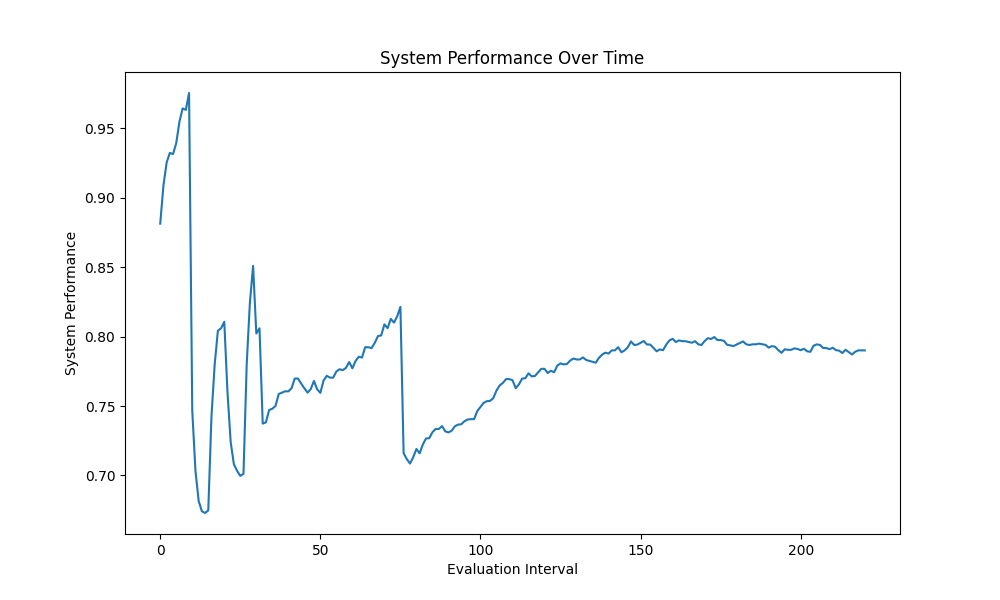
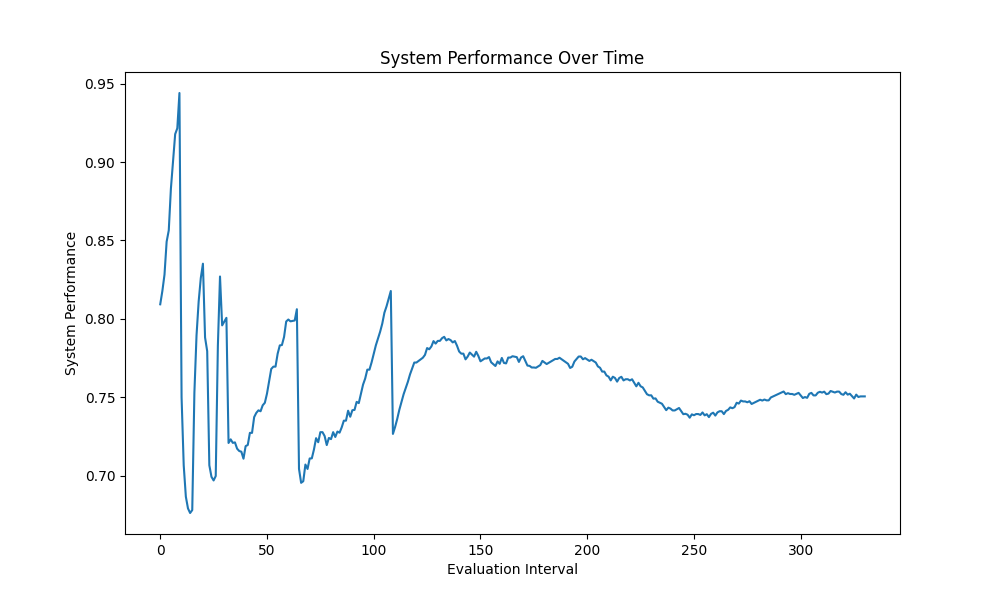
Backengine code update

diff --git a/collaborative_intelligence.py b/collaborative_intelligence.py
@@ -29,6 +29,8 @@ class Agent:
             "regression": 1,
             "clustering": 1
         }
+        self.mentor = None
+        self.mentee = None
 
     async def process_task(self, task: Task) -> Tuple[str, float]:
         processing_time = task.complexity * (1 / self.reputation) * (1 / self.expertise_level[task.domain])
@@ -100,6 +102,8 @@ class Agent:
 
     def increase_expertise(self, domain: str):
         self.expertise_level[domain] = min(10, self.expertise_level[domain] + 0.1)
+        if self.mentee:
+            self.mentee.expertise_level[domain] = min(self.mentee.expertise_level[domain] + 0.05, self.expertise_level[domain])
 
 class MultiAgentSystem:
     def __init__(self, agents: List[Agent]):
@@ -113,6 +117,7 @@ class MultiAgentSystem:
         self.long_term_performance = []
         self.add_agent_threshold = 0.7
         self.remove_agent_threshold = 0.4
+        self.domain_performance = defaultdict(list)
         for agent in self.agents:
             agent.creation_time = self.current_time
 
@@ -231,12 +236,31 @@ class MultiAgentSystem:
     def add_agent(self, agent: Agent):
         agent.creation_time = self.current_time
         self.agents.append(agent)
+        self._assign_mentor(agent)
         self.log.append(f"Time {self.current_time}: Added new agent {agent.agent_id}")
 
     def remove_agent(self, agent: Agent):
         if agent in self.agents:
+            self._remove_mentorship(agent)
             self.agents.remove(agent)
             self.log.append(f"Time {self.current_time}: Removed agent {agent.agent_id}")
+
+    def _assign_mentor(self, new_agent: Agent):
+        potential_mentors = [agent for agent in self.agents if agent.specialization == new_agent.specialization and agent != new_agent]
+        if potential_mentors:
+            mentor = max(potential_mentors, key=lambda a: a.reputation)
+            new_agent.mentor = mentor
+            mentor.mentee = new_agent
+            self.log.append(f"Time {self.current_time}: Assigned {mentor.agent_id} as mentor to {new_agent.agent_id}")
+
+    def _remove_mentorship(self, agent: Agent):
+        if agent.mentor:
+            agent.mentor.mentee = None
+            agent.mentor = None
+        if agent.mentee:
+            agent.mentee.mentor = None
+            self._assign_mentor(agent.mentee)
+            agent.mentee = None
 
     def evaluate_system_performance(self):
         if not self.agents:
@@ -249,6 +273,7 @@ class MultiAgentSystem:
         system_performance = 0.4 * overall_performance + 0.2 * task_coverage + 0.2 * knowledge_diversity + 0.2 * workload_balance
         self.performance_history.append(system_performance)
         self.workload_history.append(self._get_workload_distribution())
+        self._update_domain_performance()
         self.log.append(f"Time {self.current_time}: System performance: {system_performance:.2f}")
         return system_performance
 
@@ -272,6 +297,13 @@ class MultiAgentSystem:
         total_tasks = sum(agent.total_tasks_processed for agent in self.agents)
         return {agent.agent_id: agent.total_tasks_processed / max(1, total_tasks) for agent in self.agents}
 
+    def _update_domain_performance(self):
+        for domain in ["classification", "regression", "clustering"]:
+            domain_agents = [agent for agent in self.agents if agent.specialization == domain]
+            if domain_agents:
+                avg_performance = sum(agent.performance_by_task_type[domain]['success'] / max(1, agent.performance_by_task_type[domain]['total']) for agent in domain_agents) / len(domain_agents)
+                self.domain_performance[domain].append(avg_performance)
+
     def _adjust_agent_specializations(self):
         for agent in self.agents:
             if agent.specialization_change_cooldown > 0:
@@ -281,13 +313,15 @@ class MultiAgentSystem:
             best_specialization = agent.get_best_specialization()
             if best_specialization != agent.specialization:
                 performance_diff = agent.get_performance_difference()
-                change_probability = min(1.0, performance_diff * 10)  # Increased sensitivity
+                change_probability = min(1.0, performance_diff * 15)  # Increased sensitivity
                 if random.random() < change_probability:
+                    self._remove_mentorship(agent)
                     self.log.append(f"Time {self.current_time}: {agent.agent_id} changed specialization from {agent.specialization} to {best_specialization}")
                     self.specialization_changes.append((self.current_time, agent.agent_id, agent.specialization, best_specialization))
                     agent.specialization = best_specialization
                     agent.specialization_strength = 1.0  # Reset specialization strength
                     agent.specialization_change_cooldown = 3  # Reduced cooldown period
+                    self._assign_mentor(agent)
 
     def _update_performance_thresholds(self):
         if len(self.performance_history) > 10:
@@ -308,6 +342,8 @@ class MultiAgentSystem:
                 elif trend > 0.01:
                     self.log.append(f"Time {self.current_time}: Long-term performance improving. Optimizing system parameters.")
                     self._optimize_system_parameters()
+            
+            self._identify_and_address_bottlenecks()
 
     def _adjust_system_parameters(self):
         for agent in self.agents:
@@ -320,6 +356,29 @@ class MultiAgentSystem:
             agent.reputation *= 1.05  # Slightly increase all agent reputations to reward good performance
         self.add_agent_threshold *= 1.02  # Make it slightly harder to add new agents
         self.remove_agent_threshold *= 0.98  # Make it slightly easier to remove agents
+
+    def _identify_and_address_bottlenecks(self):
+        if len(self.domain_performance["classification"]) < 5:
+            return
+
+        for domain in ["classification", "regression", "clustering"]:
+            recent_performance = self.domain_performance[domain][-5:]
+            if sum(recent_performance) / len(recent_performance) < 0.6:  # If average performance in domain is below 0.6
+                self.log.append(f"Time {self.current_time}: Identified bottleneck in {domain} domain. Taking action.")
+                self._address_domain_bottleneck(domain)
+
+    def _address_domain_bottleneck(self, domain: str):
+        domain_agents = [agent for agent in self.agents if agent.specialization == domain]
+        if len(domain_agents) < 3:
+            # Add a new agent specialized in this domain
+            new_agent = Agent(f"Agent_{len(self.agents)+1}", domain, domain)
+            self.add_agent(new_agent)
+        else:
+            # Increase training and knowledge sharing for existing agents
+            for agent in domain_agents:
+                agent.expertise_level[domain] = min(10, agent.expertise_level[domain] * 1.1)
+                if agent.mentor:
+                    agent.expertise_level[domain] = min(10, (agent.expertise_level[domain] + agent.mentor.expertise_level[domain]) / 2)
 
     async def run_simulation(self, num_steps: int):
         for _ in range(num_steps):
@@ -360,3 +419,6 @@ class MultiAgentSystem:
 
     def get_long_term_performance(self):
         return self.long_term_performance
+
+    def get_domain_performance(self):
+        return self.domain_performance

diff --git a/test_enhanced_collaborative_intelligence.py b/test_enhanced_collaborative_intelligence.py
@@ -28,9 +28,9 @@ async def test_enhanced_collaborative_intelligence():
         print(f"{agent.agent_id} reputation: {agent.reputation:.2f}")
 
     print("\n2. Extended Simulation:")
-    num_steps = 200  # Increased simulation steps
+    num_steps = 300  # Increased simulation steps
     for step in range(num_steps):
-        if step % 20 == 0:
+        if step % 30 == 0:
             print(f"Step {step}/{num_steps}")
         await mas.run_simulation(1)
     final_performance = mas.evaluate_system_performance()
@@ -43,6 +43,10 @@ async def test_enhanced_collaborative_intelligence():
         print(f"{agent.agent_id} final specialization: {agent.specialization}")
         print(f"  Specialization strength: {agent.specialization_strength:.2f}")
         print(f"  Expertise levels: {agent.expertise_level}")
+        if agent.mentor:
+            print(f"  Mentor: {agent.mentor.agent_id}")
+        if agent.mentee:
+            print(f"  Mentee: {agent.mentee.agent_id}")
 
     print("\n4. Knowledge Sharing Statistics:")
     for agent in mas.agents:
@@ -109,7 +113,19 @@ async def test_enhanced_collaborative_intelligence():
     plt.savefig("long_term_performance.png")
     print("Long-term performance graph saved as 'long_term_performance.png'")
 
-    print("\n12. Final Performance Thresholds:")
+    print("\n12. Domain Performance:")
+    domain_performance = mas.get_domain_performance()
+    plt.figure(figsize=(12, 6))
+    for domain, performance in domain_performance.items():
+        plt.plot(performance, label=domain)
+    plt.title("Domain Performance Over Time")
+    plt.xlabel("Evaluation Interval")
+    plt.ylabel("Average Performance")
+    plt.legend()
+    plt.savefig("domain_performance.png")
+    print("Domain performance graph saved as 'domain_performance.png'")
+
+    print("\n13. Final Performance Thresholds:")
     print(f"Add agent threshold: {mas.add_agent_threshold:.2f}")
     print(f"Remove agent threshold: {mas.remove_agent_threshold:.2f}")
 
